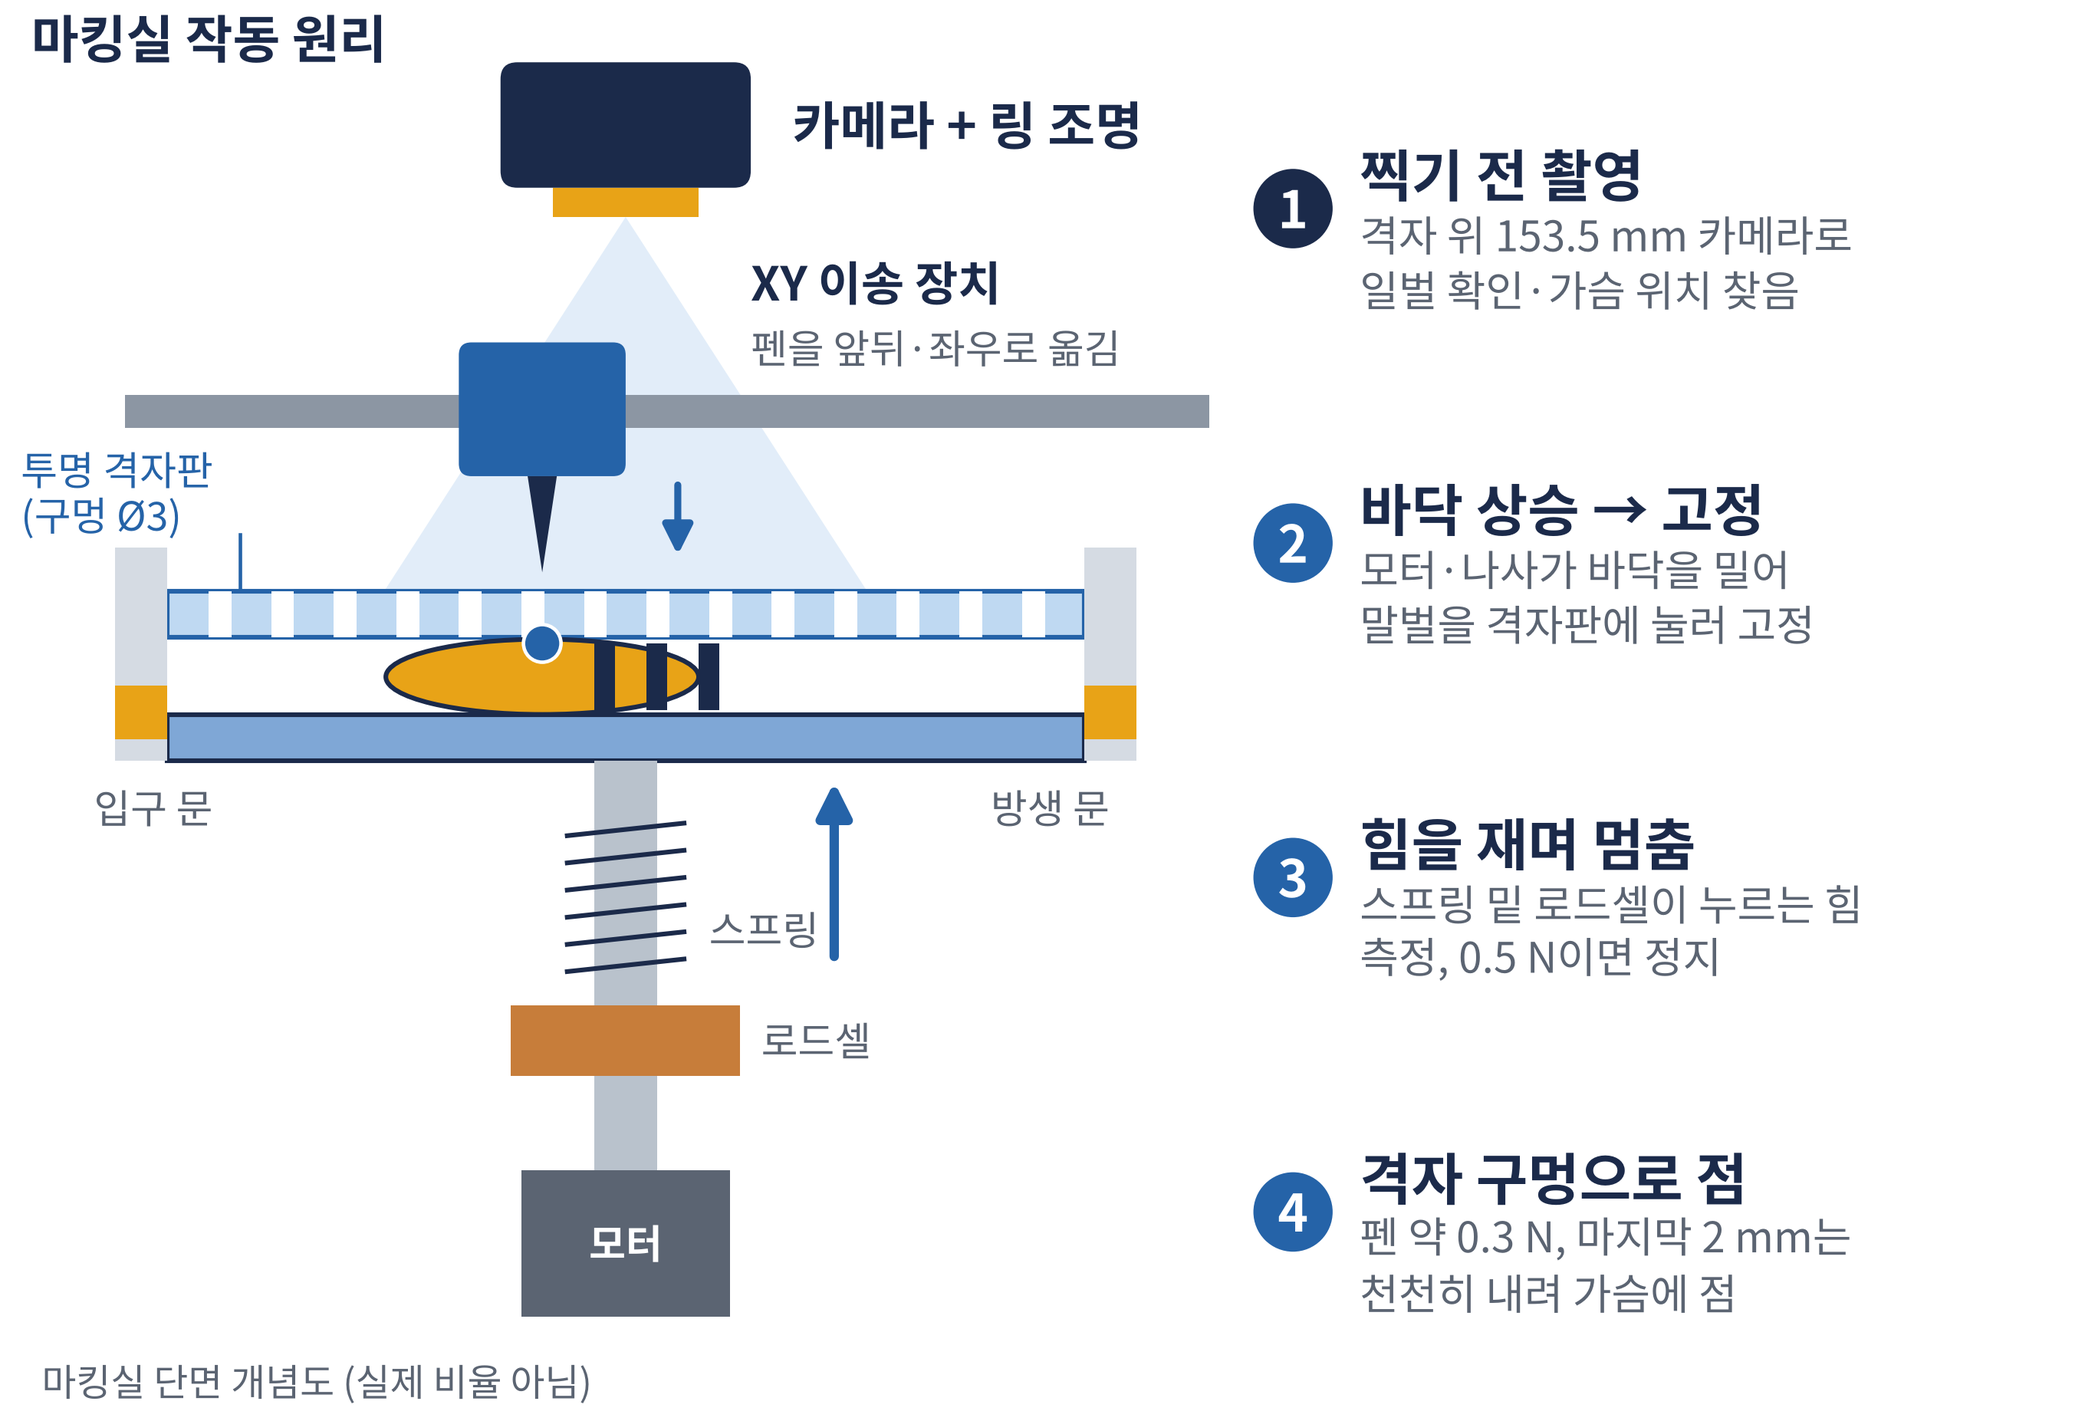
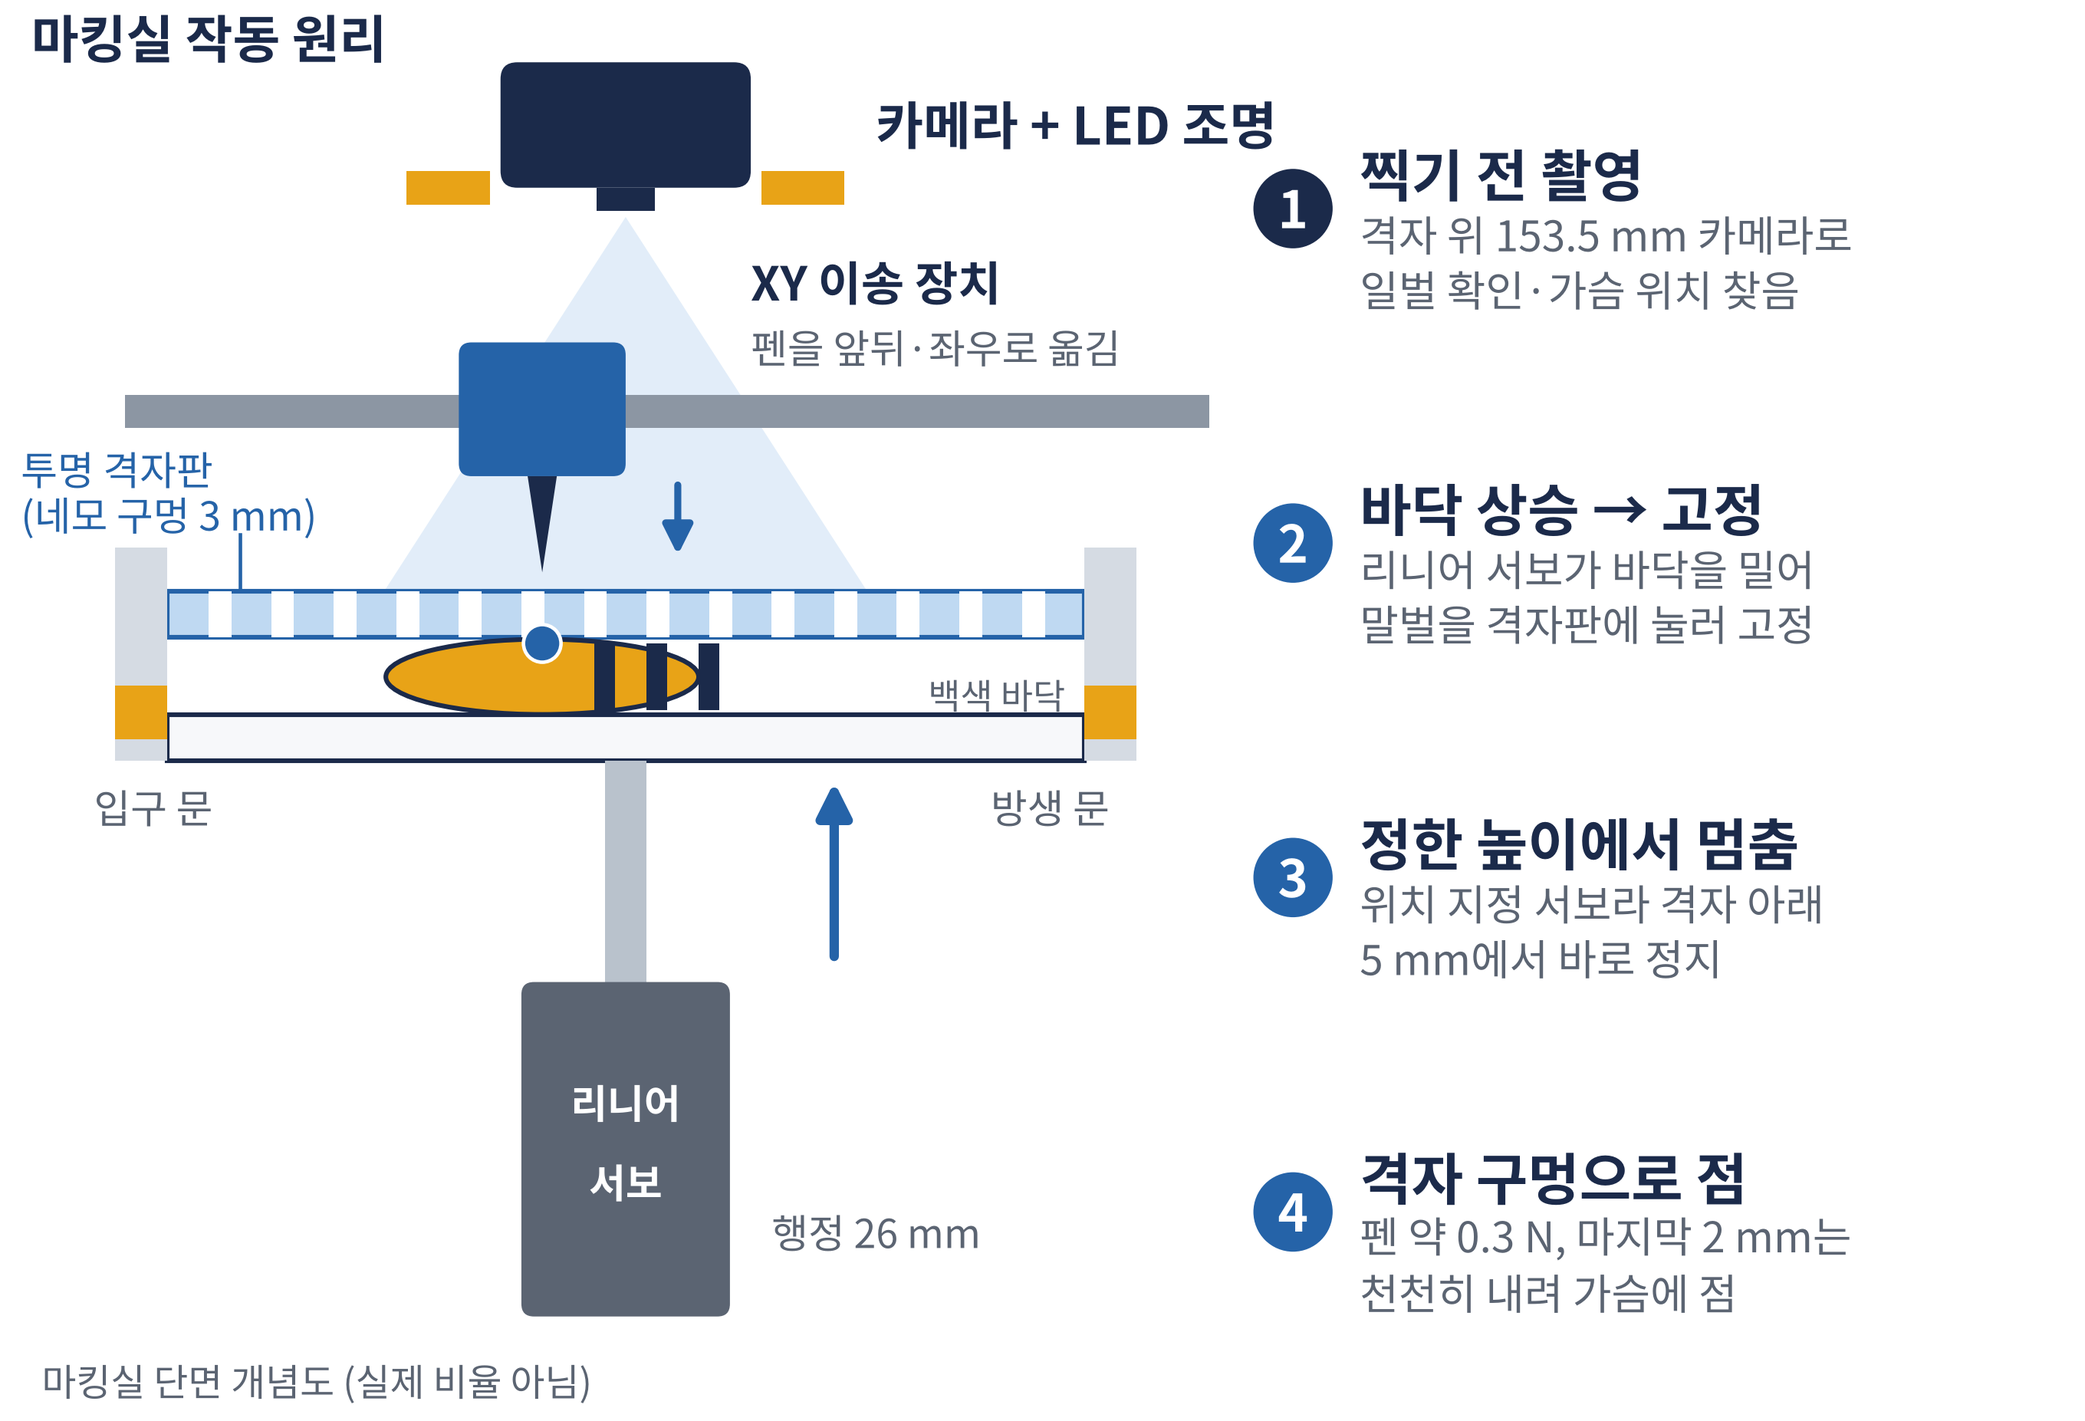
[서현] 포스터·판넬 그림을 지금 설계로 (리니어 서보만·LED 조명·네모 격자·빛 센서 1개), 판넬 결론·기대효과 6줄씩 (CAP-AI-62)
Claude-Session: https://claude.ai/code/session_01Jzg83D8Aa1A65w4ViX2JyU

diff --git a/design/poster/figs2.py b/design/poster/figs2.py
@@ -146,8 +146,9 @@ f, a = canvas()
 GL = '#BFD9F2'
 # 카메라 + 조명
 a.add_patch(FancyBboxPatch((24, 59), 12, 6, boxstyle='round,pad=0,rounding_size=0.8', fc=NAVY, ec='none'))
-a.add_patch(Rectangle((26.5, 57.6), 7, 1.4, fc=AMBER, ec='none'))
-a.text(38, 62, '카메라 + 링 조명', fontsize=22, color=NAVY, weight='bold', va='center')
+a.add_patch(Rectangle((19.5, 58.2), 4, 1.6, fc=AMBER, ec='none')); a.add_patch(Rectangle((36.5, 58.2), 4, 1.6, fc=AMBER, ec='none'))
+a.add_patch(Rectangle((28.6, 57.9), 2.8, 1.1, fc=NAVY, ec='none'))
+a.text(42, 62, '카메라 + LED 조명', fontsize=22, color=NAVY, weight='bold', va='center')
 a.add_patch(Polygon([(30, 57.6), (17, 37.5), (43, 37.5)], closed=True, fc=GL, ec='none', alpha=0.45))
 # XY 이송 장치
 a.add_patch(Rectangle((6, 47.5), 52, 1.6, fc='#8C96A3', ec='none'))
@@ -163,12 +164,10 @@ a.add_patch(Ellipse((26.0, 35.6), 15, 3.6, fc=AMBER, ec=NAVY, lw=2))
 for sx in (29, 31.5, 34): a.add_patch(Rectangle((sx - 0.5, 34.0), 1.0, 3.2, fc=NAVY, ec='none'))
 a.add_patch(Circle((26.0, 37.2), 0.9, fc='#2563A8', ec='white', lw=1.5, zorder=5))
 # 승강 바닥 + 구동
-a.add_patch(Rectangle((8, 31.6), 44, 2.2, fc='#7FA7D6', ec=NAVY, lw=2))
+a.add_patch(Rectangle((8, 31.6), 44, 2.2, fc='#F7F8FA', ec=NAVY, lw=2))
 a.add_patch(FancyArrowPatch((40, 22), (40, 30.8), arrowstyle='-|>', mutation_scale=30, lw=4, color=BLUE))
-a.add_patch(Rectangle((28.5, 12), 3, 19.6, fc='#B9C2CC', ec='none'))
-for k in range(6): a.plot([27.2, 32.8], [21.5 + k * 1.3, 22.1 + k * 1.3], color=NAVY, lw=2)
-a.add_patch(Rectangle((24.5, 16.5), 11, 3.4, fc='#C77D3A', ec='none'))
-a.add_patch(Rectangle((25, 5), 10, 7, fc=GRAY, ec='none'))
+a.add_patch(Rectangle((29, 21), 2, 10.6, fc='#B9C2CC', ec='none'))
+a.add_patch(FancyBboxPatch((25, 5), 10, 16, boxstyle='round,pad=0,rounding_size=0.6', fc=GRAY, ec='none'))
 # 벽·문
 a.add_patch(Rectangle((5.5, 31.6), 2.5, 10.2, fc='#D5DBE3', ec='none')); a.add_patch(Rectangle((52, 31.6), 2.5, 10.2, fc='#D5DBE3', ec='none'))
 a.add_patch(Rectangle((5.5, 32.6), 2.5, 2.6, fc=AMBER, ec='none')); a.add_patch(Rectangle((52, 32.6), 2.5, 2.6, fc=AMBER, ec='none'))
@@ -180,12 +179,12 @@ def note(y, n, t, s, c=NAVY):
     a.text(R + 5.2, y + 1.6, t, fontsize=24, color=NAVY, weight='bold', va='center')
     a.text(R + 5.2, y - 2.6, s, fontsize=18, color=GRAY, va='center', linespacing=1.3)
 note(58, '1', '찍기 전 촬영', '격자 위 153.5 mm 카메라로\n일벌 확인·가슴 위치 찾음')
-note(42, '2', '바닥 상승 → 고정', '모터·나사가 바닥을 밀어\n말벌을 격자판에 눌러 고정', BLUE)
-note(26, '3', '힘을 재며 멈춤', '스프링 밑 로드셀이 누르는 힘\n측정, 0.5 N이면 정지', BLUE)
+note(42, '2', '바닥 상승 → 고정', '리니어 서보가 바닥을 밀어\n말벌을 격자판에 눌러 고정', BLUE)
+note(26, '3', '정한 높이에서 멈춤', '위치 지정 서보라 격자 아래\n5 mm에서 바로 정지', BLUE)
 note(10, '4', '격자 구멍으로 점', '펜 약 0.3 N, 마지막 2 mm는\n천천히 내려 가슴에 점', BLUE)
-a.text(30, 8.5, '모터', ha='center', va='center', fontsize=17, color='white', weight='bold')
-a.text(36.5, 18.2, '로드셀', fontsize=17, color=GRAY, va='center'); a.text(34, 23.5, '스프링', fontsize=17, color=GRAY, va='center')
-a.text(1, 42.6, '투명 격자판\n(구멍 Ø3)', fontsize=17, color=BLUE, linespacing=1.2); a.plot([11.5, 11.5], [42.4, 39.8], color=BLUE, lw=1.5)
+a.text(30, 15.2, '리니어', ha='center', va='center', fontsize=17, color='white', weight='bold'); a.text(30, 11.4, '서보', ha='center', va='center', fontsize=17, color='white', weight='bold')
+a.text(37, 9, '행정 26 mm', fontsize=17, color=GRAY, va='center'); a.text(44.5, 34.7, '백색 바닥', fontsize=15, color=GRAY, va='center')
+a.text(1, 42.6, '투명 격자판\n(네모 구멍 3 mm)', fontsize=17, color=BLUE, linespacing=1.2); a.plot([11.5, 11.5], [42.4, 39.8], color=BLUE, lw=1.5)
 a.text(1.5, 65.2, '마킹실 작동 원리', fontsize=22, color=NAVY, weight='bold')
 a.text(2, 1.2, '마킹실 단면 개념도 (실제 비율 아님)', fontsize=16, color=GRAY)
 f.savefig('fig_idea.png'); plt.close(f)
@@ -209,7 +208,7 @@ lab(8.5, '시판 트랩', '처음 잡히는 곳', 9.4, 30)
 X = 72
 def box(y, t, fc=LIGHT, tc=NAVY, w=22):
     card(a, X - w / 2, y - 3, w, 6, fc=fc, ec=fc, r=1.2); a.text(X, y, t, ha='center', va='center', fontsize=20, color=tc, weight='bold')
-box(8, '시판 트랩 몸통'); box(22, '입구 통로 (센서 2개)'); box(38, '마킹실', NAVY, 'white')
+box(8, '시판 트랩 몸통'); box(22, '입구 통로 (빛 센서)'); box(38, '마킹실', NAVY, 'white')
 arrow(a, X, 11.2, X, 18.6); arrow(a, X, 25.2, X, 34.6)
 card(a, 58, 52, 20, 9, fc='#FDF3DE', ec='#FDF3DE', r=1.2); a.text(68, 58.4, '밖으로 (귀소)', ha='center', va='center', fontsize=18, color=NAVY, weight='bold'); a.text(68, 54.6, '일벌 · 표시 후', ha='center', va='center', fontsize=16, color='#9A6A0A', weight='bold')
 card(a, 80, 52, 19, 9, fc='#E9ECEF', ec='#E9ECEF', r=1.2); a.text(89.5, 58.4, '포획통 (격리)', ha='center', va='center', fontsize=18, color=NAVY, weight='bold'); a.text(89.5, 54.6, '여왕벌 · 다른 종', ha='center', va='center', fontsize=16, color=GRAY, weight='bold')
@@ -224,8 +223,8 @@ iso = trim('/home/claude/repo/cad/img/D5g_도1_전체_등각.png', 150, 90); ih 
 a.add_patch(FancyBboxPatch((0.2, 0.2), iw + 1.0, PH - 0.4, boxstyle='round,pad=0,rounding_size=0.8', fc='white', ec=LINE, lw=2))
 a.imshow(np.asarray(iso), extent=(0.7, 0.7 + iw, 0.8, 0.8 + ih), zorder=2)
 a.text(iw + 0.6, 0.9, 'CAD 모델', ha='right', va='bottom', fontsize=18, color=GRAY, zorder=3)
-pts = [('시판 트랩 장착형', '시판 트랩 위에 얹는\n2020 알루미늄 프레임'), ('입구 통로', '센서 2개·문으로\n한 마리씩 들여보냄'),
-       ('마킹실', '투명 격자판 (구멍 Ø3)\n승강 바닥·로드셀'), ('XY 펜', '수성 마커, 약 0.3 N\n마지막 2 mm는 천천히'),
+pts = [('시판 트랩 장착형', '시판 트랩 위에 얹는\n2020 알루미늄 프레임'), ('입구 통로', '빛 센서·문으로\n한 마리씩 들여보냄'),
+       ('마킹실', '투명 격자판 (네모 구멍 3 mm)\n리니어 서보 승강 바닥'), ('XY 펜', '수성 아크릴 마커, 약 0.3 N\n마지막 2 mm는 천천히'),
        ('설계 검토', '역학계산 10문제\n부품 167개 간섭 검사')]
 x0 = iw + 2.2
 for i, (t, s) in enumerate(pts):

diff --git a/design/poster/panel_content.py b/design/poster/panel_content.py
@@ -1,4 +1,4 @@
-P11=['등검은말벌: 양봉장 앞에서 꿀벌을 사냥해 벌통 약화·폐사', '시판 트랩은 날아온 일벌만 포획 → 둥지가 남아 피해 반복', '근본 대책은 둥지 제거, 그러나 둥지는 숲속·높은 곳에 있음', '탐색법: 말벌에 표시 후 놓아주고 돌아가는 방향·시간 추적', '문제: 표시를 사람이 손으로 함 → 쏘임 위험·긴 작업 시간', '목표: 판별·고정·표시·내보냄을 기계로 자동화']
-P12=['① 들어옴: 입구 문·센서로 한 마리만 입실', '② 판별: 카메라 AI (VespAI 재학습)로 일벌 확인', '③ 고정: 승강 바닥이 말벌을 격자판에 눌러 고정', '④ 표시: XY 펜이 격자 구멍으로 가슴에 점', '⑤ 내보냄: 출구 문 열림·나간 시각 기록', '여왕벌·다른 종은 표시 없이 격리', '다시 잡힌 시각과 비교 → 둥지 거리 범위 추정']
-P41=['여왕벌 마킹 통 원리를 기계화한 자동 마킹 모듈 설계', 'AI 재학습으로 격자 너머 말벌 917/917 장면 판별', '부품 167개 간섭 검사·제어 모의 시험 180개 통과', '향후: 실물 조립 후 표본 말벌로 동작 시험 (확정)', '야외 귀소 시험은 방생 허가가 필요해 후속 연구로 남김']
-P42=['쏘임 위험이 큰 손 표시 작업을 기계로 대체', '재포획 시각 기록 → 왕복 시간으로 둥지 거리 범위 추정', '지자체·방제 기관용 B2G 둥지 조사 장비로 보급', '표본 시험 결과로 자동 고정·표시 기구 특허 출원 검토']
+P11=['등검은말벌: 양봉장 앞에서 꿀벌을 사냥해 벌통 약화·폐사', '시판 트랩은 날아온 일벌만 포획 → 둥지가 남아 피해 반복', '근본 대책은 둥지 제거, 그러나 둥지는 숲속·높은 곳에 있음', '탐색법: 말벌에 표시 후 놓아주고 돌아가는 방향·시간 추적', '문제: 표시를 사람이 손으로 함 → 쏘임 위험·긴 작업 시간', '기존 연구: VespAI (영국)는 판별만, 표시는 사람 손', '목표: 판별·고정·표시·내보냄을 기계로 자동화']
+P12=['① 들어옴: 입구 문·센서로 한 마리만 입실', '② 판별: 카메라 AI (VespAI 재학습)로 일벌 확인', '③ 고정: 리니어 서보가 바닥을 올려 격자판에 고정', '④ 표시: XY 펜이 격자 구멍으로 가슴에 점', '⑤ 내보냄: 출구 문 열림·나간 시각 기록', '여왕벌·다른 종은 표시 없이 격리', '다시 잡힌 시각과 비교 → 둥지 거리 범위 추정']
+P41=['여왕벌 마킹 통 원리를 기계화한 자동 마킹 모듈 설계', '역학계산 10문제로 찍는 힘·서보·문 끼임·펜 충격 검토', 'AI 재학습으로 격자 너머 말벌 917/917 장면 판별', '부품 167개 간섭 검사·제어 모의 시험 180개 통과', '부품 61종 구매, 판 16장 가공·3D 프린트 9종 주문', '향후: 표본 말벌 동작 시험 (확정), 야외 시험은 후속 연구']
+P42=['쏘임 위험이 큰 손 표시 작업을 기계로 대체', '한 마리씩 자동 처리 → 표시 작업 시간·인력 절감', '재포획 시각 기록 → 왕복 시간으로 둥지 거리 범위 추정', '둥지를 빨리 찾아 제거 → 양봉 피해 감소에 기여', '지자체·방제 기관용 B2G 둥지 조사 장비로 보급', '표본 시험 결과로 자동 고정·표시 기구 특허 출원 검토']

diff --git a/design/poster/content.py b/design/poster/content.py
@@ -6,7 +6,7 @@ BODY={
 '직사각형 21':['말벌 포획부터 표시·내보냄까지 사람 손 없이 자동화','카메라 AI로 등검은말벌 일벌만 골라 표시','여왕벌·다른 종은 표시 없이 격리','다시 잡힌 시각을 기록해 둥지 거리 추정에 활용','시판 트랩에 얹는 모듈로 지자체·방제 기관 보급'],
 '직사각형 35':['영국 VespAI: 카메라 AI로 판별만, 표시는 못 함','여왕벌 마킹 통: 망에 눌러 고정 후 손으로 표시','두 방식을 결합해 판별·고정·표시를 기계가 수행','전문가 자문으로 형광 가루 대신 수성 마커 채택'],
 '직사각형 37':['입구 문과 적외선 센서로 한 번에 한 마리만 입실','승강 바닥이 말벌을 투명 격자판에 눌러 고정','XY 이송 장치가 펜을 옮겨 격자 구멍으로 점 표시','펜은 약 0.3 N으로 가볍게, 마지막 2 mm는 천천히'],
-'직사각형 42':['역학계산 10문제로 나사·서보·문 힘과 펜 충격 검토','3D 모델 167개 부품의 움직임·간섭 검사 통과','회로 설계와 제어 프로그램 모의 시험 180개 통과','AI 재학습으로 격자 너머 말벌 917/917 장면 판별','부품 61종 구매, 판 16장 가공·3D 프린트 9종 주문'],
+'직사각형 42':['역학계산 10문제로 찍는 힘·문 끼임·펜 충격 검토','3D 모델 167개 부품의 움직임·간섭 검사 통과','회로 설계와 제어 프로그램 모의 시험 180개 통과','AI 재학습으로 격자 너머 말벌 917/917 장면 판별','부품 61종 구매, 판 16장 가공·3D 프린트 9종 주문'],
 '직사각형 43':['위험한 말벌 표시 작업을 기계가 대신해 쏘임 위험 제거','기록된 왕복 시간으로 둥지까지 거리 범위 추정'],
 '직사각형 44':['실물 조립 후 표본 말벌로 판별·고정·표시 동작 시험','야외 귀소 시험은 방생 허가 필요 → 후속 연구로 제안','표본 시험 결과로 B2G 보급·특허 출원 검토'],
 }

diff --git a/design/poster/mkpanel.py b/design/poster/mkpanel.py
@@ -33,7 +33,7 @@ C=__import__('panel_content')
 tb(5.0,26.6,17.8,28.5,C.P11,3000); tb(26.6,26.6,14.6,28.5,C.P12,3000)   # 11/23: PowerPoint에서 1.2가 칸 밖으로 넘침 → 줄 수·글자 줄임
 pic('fig_p_design.png',44.5,23.4,35.6)                                         # 2번 칸: CAD + 설계 요점 (판넬 전용 그림)
 pic('fig_idea.png',4.8,64.3,36.6); pic('fig_result.png',42.8,64.3,36.6)       # 3번 칸: 마킹실 작동 원리 + 장치 구조·말벌 경로
-tb(8.6,98.0,31.6,12.0,C.P41,3000); tb(44.6,97.6,36.0,12.0,C.P42,3000)
+tb(8.6,97.8,31.6,12.8,C.P41,3000); tb(44.6,97.8,36.0,12.8,C.P42,3000)   # 11/23 '저거밖에 안 돼? 흰 부분 없애' → 6줄씩, 한 줄에 들어가게
 x=x.replace('</p:spTree>',''.join(add)+'</p:spTree>')
 x=re.sub(r'<a:rPr(?![^>]*noProof)',r'<a:rPr noProof="1"',x)
 open(S,'w',encoding='utf-8').write(x); open(RL,'w',encoding='utf-8').write(rels)

diff --git a/ai-log/AI_명령사항_로그.md b/ai-log/AI_명령사항_로그.md
@@ -1452,3 +1452,11 @@
   - 확인: LibreOffice 렌더 (포스터·판넬) — 넘침·겹침 없음. 앵커 양식 제목 '1. 설계 주제' 두 줄 겹침은 LibreOffice 글꼴 문제로 보임 (PowerPoint 확인 못 함, 미검증)
   - 바탕화면: 앵커 포스터 덮음. **판넬은 PowerPoint에 열려 있어 못 덮음** → 서현이 닫으면 덮기
   - 인수인계 11-20 → 11-23 (git mv), 맨 앞 '11/23 15:28'. 남은 것: 최종보고서 (`report.js` 145줄)·발표 PPT (`ppt.py` 72줄)의 '2027 여름 실물 시험' 문장, 신청서 `_초안.xlsx` 삭제, 학번·동의, 11/24 11:00 앵커 제출
+- **(11/23 15:37~16:00) 서현 "결론·기대효과 저거밖에 안 돼? 휨(흰) 부분 전부 없애", "그림에 스프링 안 들어가고 리니어 액추에이터만", "마킹실 작동원리도", "문제가 왜 이렇게 많냐, 제대로 해":**
+  - [확실] 내 잘못: 그림 3을 11/14 전 설계 (스프링·로드셀·모터 나사)로 그림 — 인터페이스 정의서와 대조 안 함. 이번에 그림·글 전부를 정의서와 대조
+  - 그림 3: 승강 = 리니어 서보 하나 (mightyZAP, 행정 26, 위치 지정 — 격자 아래 5 mm에서 멈춤), 조명 = LED 모듈 2개 (11/17), 격자판 = 네모 구멍 3 mm (11/14), 바닥 = 백색 (11/17). 설명 ②·③ 바꿈
+  - 그림 4: '입구 통로 (센서 2개)' → '(빛 센서)' (11/17 빛 게이트 3쌍 — 입구는 G2 하나). 판넬 그림: 마킹실 '로드셀' → '리니어 서보 승강 바닥', '구멍 Ø3' → '네모 구멍 3 mm', 입구 '센서 2개' → '빛 센서'
+  - 글: 역학계산 줄의 '나사' (M1 옛 바닥 나사 — 지금 설계에 없음) 뺌, 판넬 ③ '리니어 서보가 바닥을 올려'
+  - '휨 부분' = '흰 부분' (빈 공간)으로 읽음 [가능성 높음]: 판넬 4.1·4.2 6줄씩 (역학계산·구매 가공 / 시간·인력 절감·양봉 피해 감소 더함, 한 줄에 들어가게), 1.1에 '기존 연구: VespAI는 판별만' 더함
+  - 확인: LibreOffice 렌더 — 겹침·넘침 없음. 바탕화면 포스터·판넬 둘 다 PowerPoint에 열려 있어 못 덮음 → 닫으면 덮기
+  - 남은 것: 최종보고서 `report.js` 96줄 격자 '두께 1.5, 구멍 Ø3' 틀림 (2T·네모 3.0), 보고서·발표 PPT '2027 여름 실물 시험'
